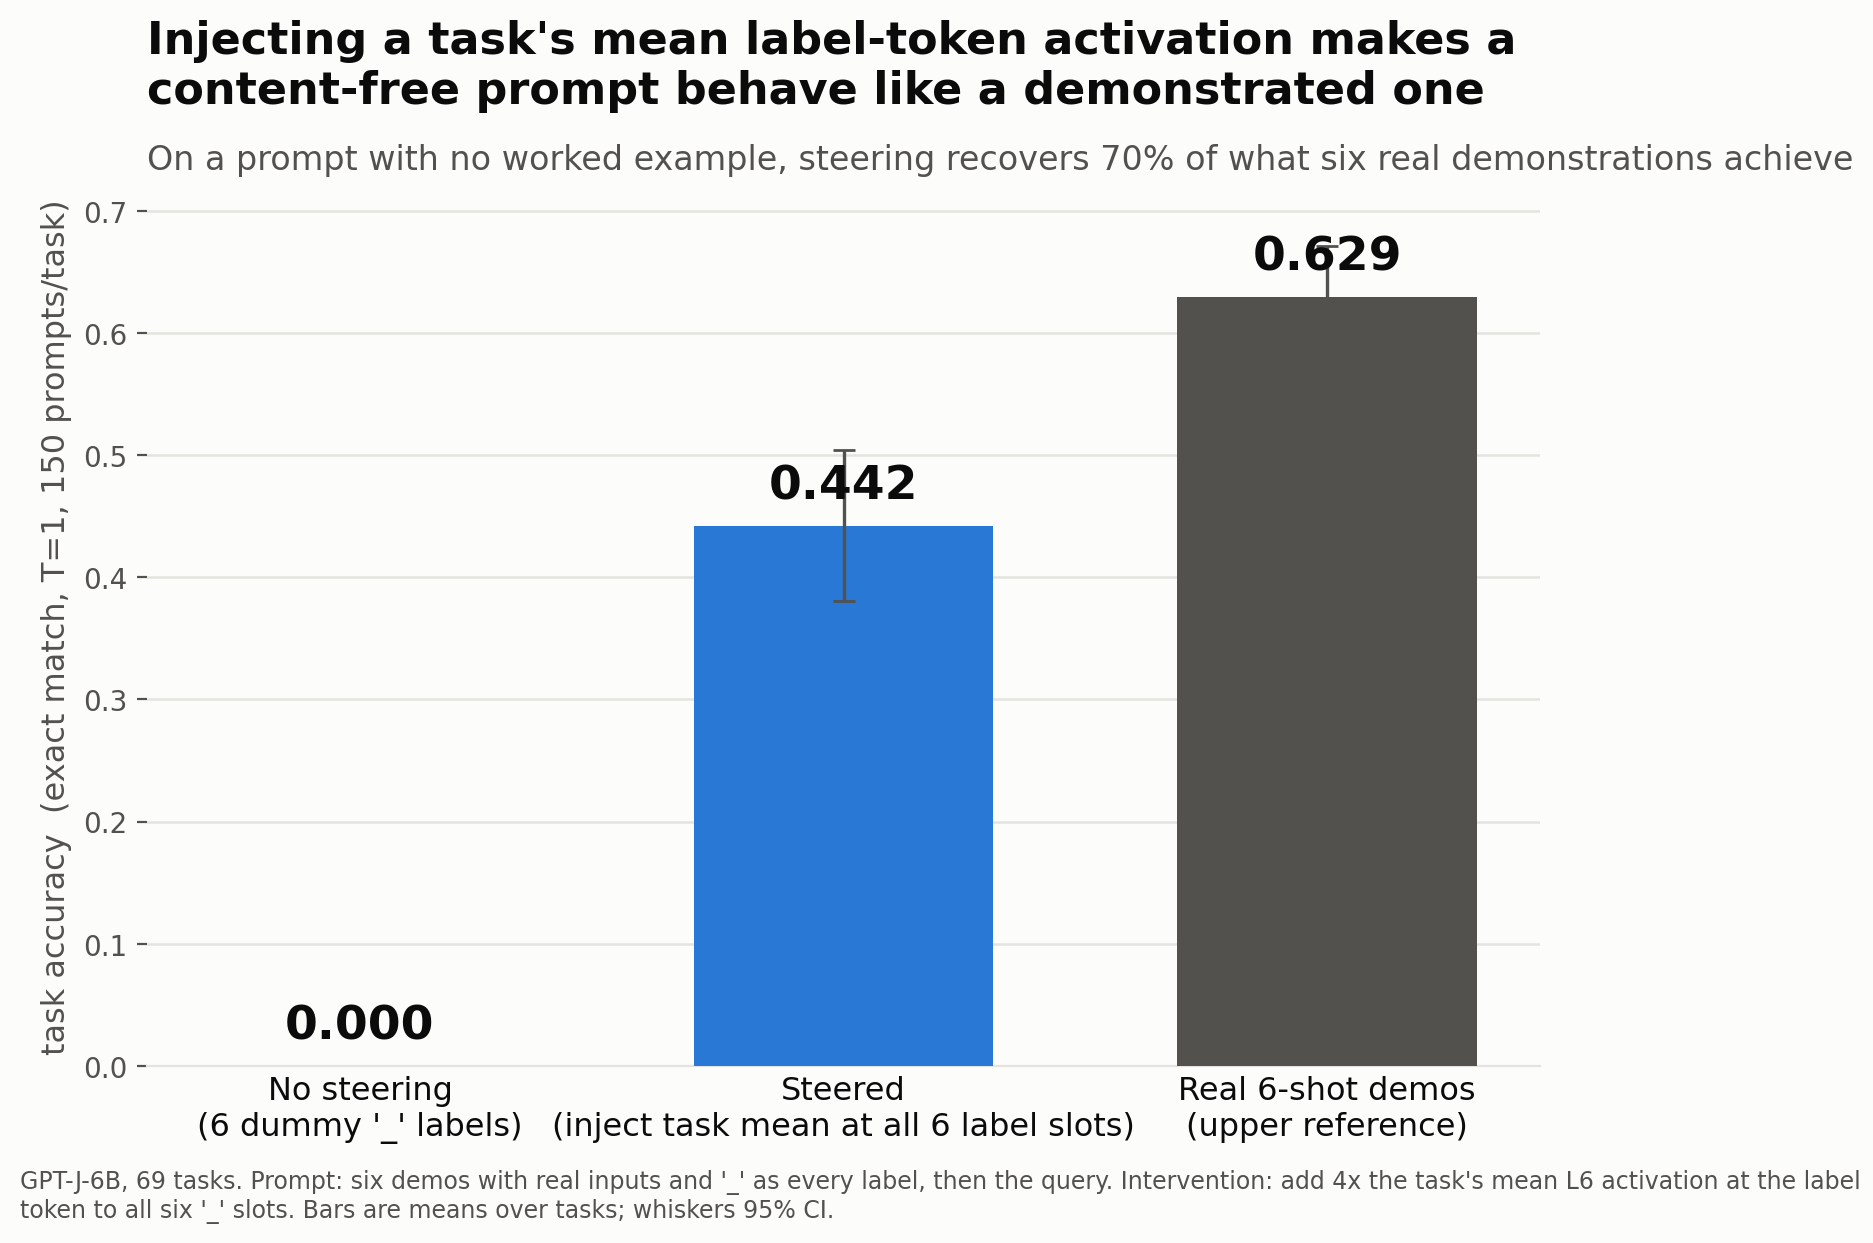
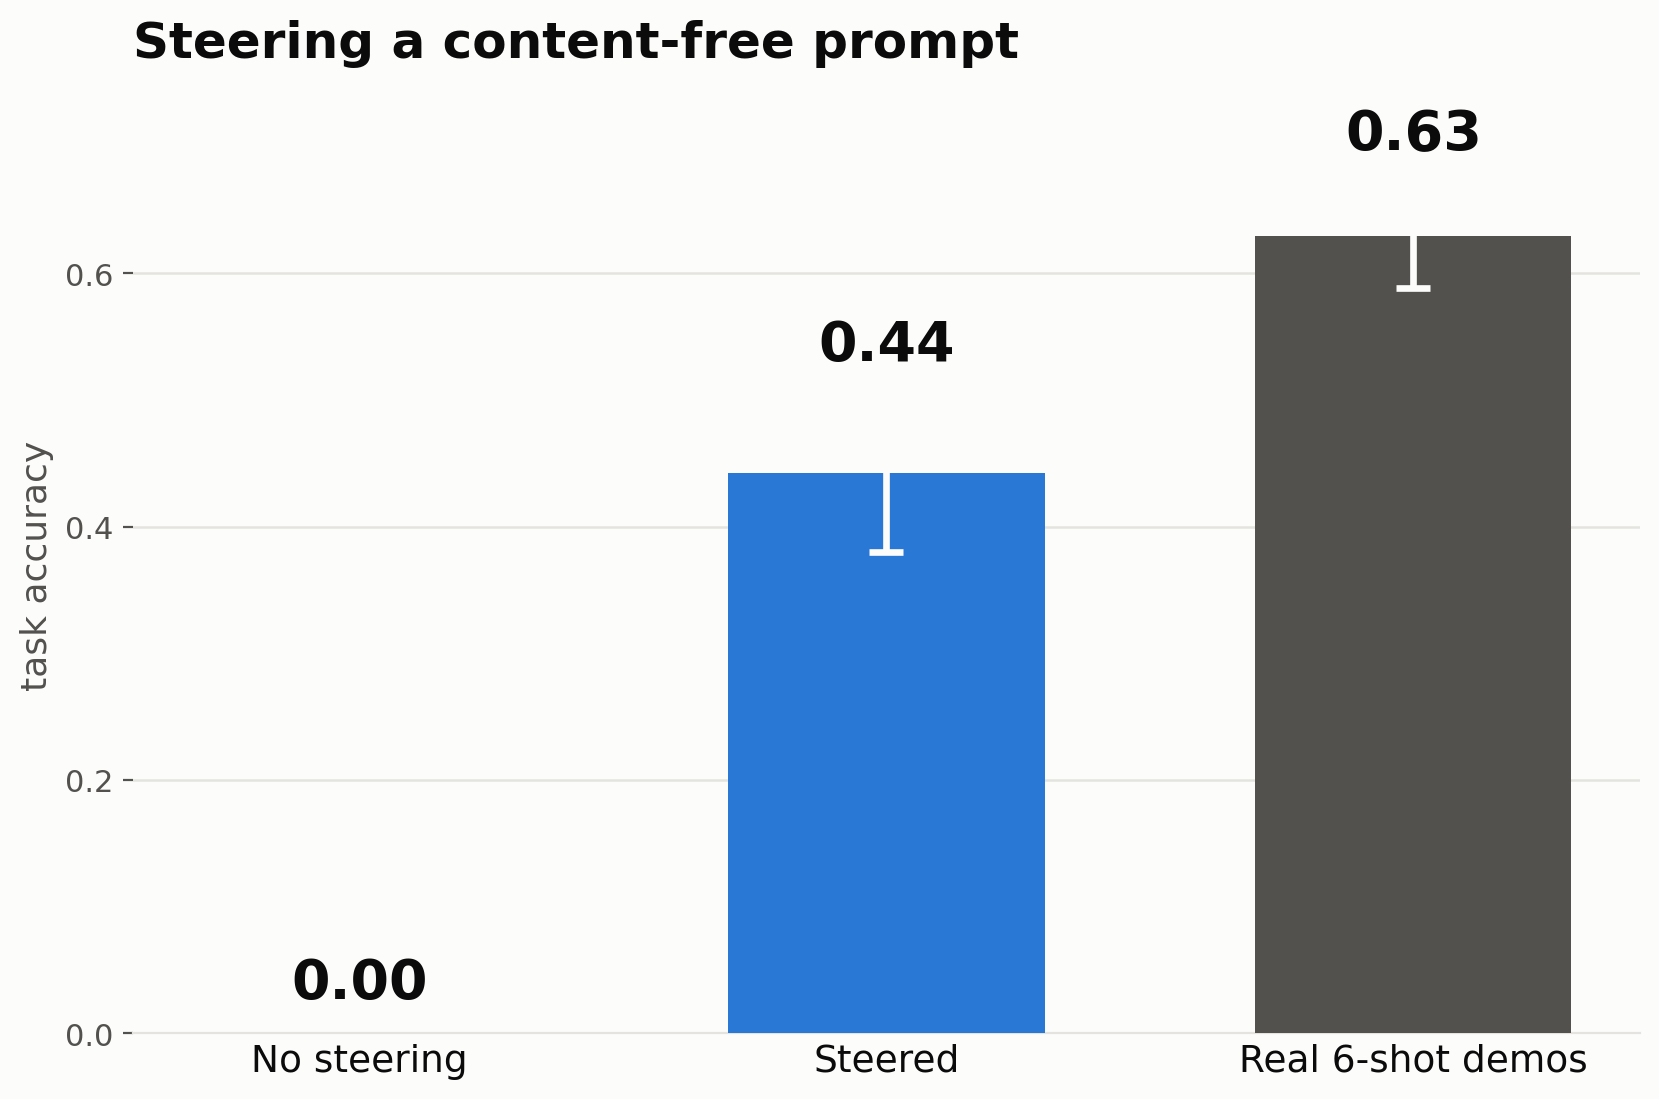
Poster: strip headline bars to title, axis, three bars and their numbers

diff --git a/src/eval_scripts/plot_poster_visuals.py b/src/eval_scripts/plot_poster_visuals.py
@@ -56,53 +56,41 @@ def ci95(v):
 
 def headline_bars():
     rows, col = load()
-    series = [("No steering\n(6 dummy '_' labels)", col("dummy6_unsteered"), GRAY),
-              ("Steered\n(inject task mean at all 6 label slots)", col(ALPHA_FIXED), BLUE),
-              ("Real 6-shot demos\n(upper reference)", col("real_6shot"), GRAPHITE)]
-    fig, ax = plt.subplots(figsize=(9.2, 6.2), dpi=200)
+    series = [("No steering", col("dummy6_unsteered"), GRAY),
+              ("Steered", col(ALPHA_FIXED), BLUE),
+              ("Real 6-shot demos", col("real_6shot"), GRAPHITE)]
+    fig, ax = plt.subplots(figsize=(8.4, 5.6), dpi=200)
     fig.patch.set_facecolor(SURFACE)
     ax.set_facecolor(SURFACE)
     x = np.arange(len(series))
     for i, (lab, v, c) in enumerate(series):
-        m = float(v.mean())
-        ax.bar(i, m, width=0.62, color=c, zorder=3,
-               error_kw=dict(ecolor=INK2, lw=1.2, capsize=4, zorder=4),
-               yerr=ci95(v) if m > 0 else None)
-        ax.text(i, m + 0.014, f"{m:.3f}", ha="center", va="bottom", fontsize=17,
+        m, e = float(v.mean()), ci95(v)
+        ax.bar(i, m, width=0.6, color=c, zorder=3)
+        if m > 0:
+            # light whiskers so they read against the dark reference bar
+            ax.errorbar(i, m, yerr=e, fmt="none", ecolor="#fcfcfb", elinewidth=2.4,
+                        capsize=6, capthick=2.4, zorder=4)
+        ax.text(i, m + e + 0.018, f"{m:.2f}", ha="center", va="bottom", fontsize=20,
                 fontweight="bold", color=INK, zorder=5)
-    # the headline: how much of the real-demo effect steering recovers
-    steer, real = float(series[1][1].mean()), float(series[2][1].mean())
-    subtitle = (f"On a prompt with no worked example, steering recovers "
-                f"{steer/real:.0%} of what six real demonstrations achieve")
-    ax.set_xticks(x, [s[0] for s in series], fontsize=11.5, color=INK)
-    ax.set_ylabel("task accuracy  (exact match, T=1, 150 prompts/task)",
-                  fontsize=11.5, color=INK2)
-    ax.set_ylim(0, 0.72)
-    ax.set_yticks(np.arange(0, 0.71, 0.1))
-    ax.tick_params(axis="y", colors=INK2, labelsize=10)
+    ax.set_xticks(x, [s[0] for s in series], fontsize=13.5, color=INK)
+    ax.set_ylabel("task accuracy", fontsize=13, color=INK2)
+    ax.set_ylim(0, 0.74)
+    ax.set_yticks(np.arange(0, 0.71, 0.2))
+    ax.tick_params(axis="y", colors=INK2, labelsize=11)
     ax.tick_params(axis="x", length=0)
     ax.yaxis.grid(True, color=GRID, lw=0.9, zorder=0)
     ax.set_axisbelow(True)
-    for s in ("top", "right", "left"):
-        ax.spines[s].set_visible(False)
+    for sp in ("top", "right", "left"):
+        ax.spines[sp].set_visible(False)
     ax.spines["bottom"].set_color(GRID)
-    ax.set_title("Injecting a task's mean label-token activation makes a\n"
-                 "content-free prompt behave like a demonstrated one",
-                 fontsize=16, fontweight="bold", color=INK, pad=30, loc="left")
-    ax.text(0, 1.012, subtitle, transform=ax.transAxes, fontsize=12, color=INK2,
-            ha="left", va="bottom")
-    fig.text(0.005, 0.005,
-             "GPT-J-6B, 69 tasks. Prompt: six demos with real inputs and '_' as every "
-             "label, then the query. Intervention: add 4x the task's mean L6 activation at "
-             "the label token to all six '_' slots. Bars are means over tasks; whiskers 95% CI.",
-             fontsize=8.5, color=INK2, ha="left", va="bottom", wrap=True)
-    fig.tight_layout(rect=(0, 0.045, 1, 1))
+    ax.set_title("Steering a content-free prompt", fontsize=18, fontweight="bold",
+                 color=INK, pad=14, loc="left")
+    fig.tight_layout()
     OUT.mkdir(parents=True, exist_ok=True)
     fig.savefig(OUT / "headline_bars.png", bbox_inches="tight", facecolor=SURFACE)
+    steer, real = float(series[1][1].mean()), float(series[2][1].mean())
     print(f"headline: unsteered {series[0][1].mean():.4f} | steered {steer:.4f} | "
           f"real6 {real:.4f} | ratio {steer/real:.3f}")
-
-
 
 
 def _token_row(ax, toks, y, slot, steered, centers_out=None):

diff --git a/WORKLOG.md b/WORKLOG.md
@@ -6112,3 +6112,13 @@ Per user: (1) only the intervened '_' token and the final 'compile' answer are b
 other tokens stay grey, so it no longer looks like every position is intervened on;
 (2) vertical whitespace between the L7-L27 band and the top rollout removed (canvas 6.9 ->
 5.1 units, bands re-spaced), giving a much denser figure at the same width.
+
+### Addendum — headline bars stripped down for the poster
+
+Per user: removed the footnote caption and the subtitle; title shortened to "Steering a
+content-free prompt" (no accuracy claim in it); y-axis label is now just "task accuracy";
+x tick labels are "No steering" / "Steered" / "Real 6-shot demos" (bracketed detail gone);
+value labels moved ABOVE the whiskers and rounded to 2 dp; whiskers recoloured to the
+surface white (#fcfcfb) so they read against both the blue and the dark graphite bar
+(contrast 4.3:1 and 7.7:1 respectively). Bar colours unchanged and still PASS the ported
+palette checks. Methods detail now lives in the poster text, not the figure.
